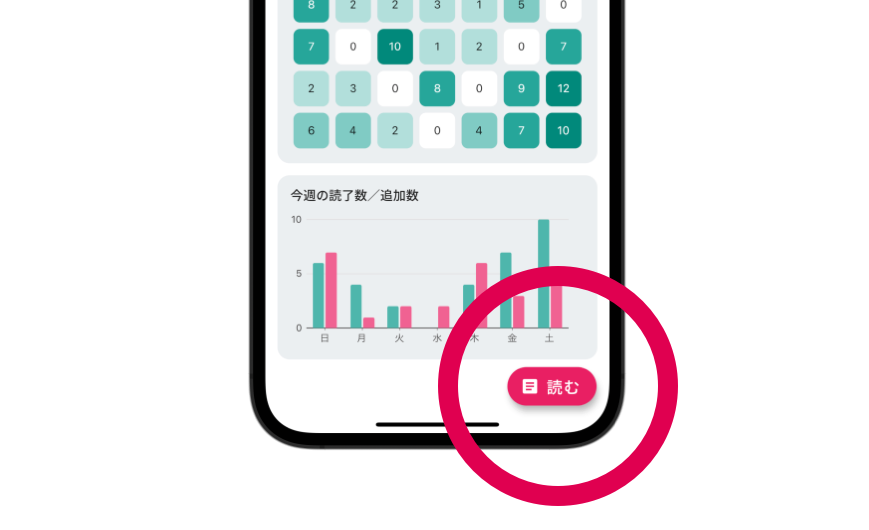
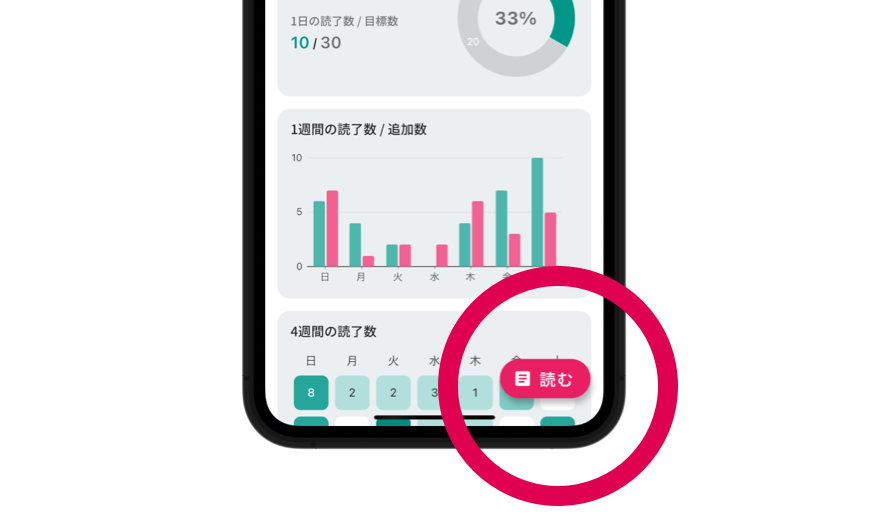
Update v1.1

Changed region(s): [[0.2796, 0.0, 0.7457, 0.8755]]

diff --git a/docs/index.html b/docs/index.html
@@ -94,7 +94,7 @@
         <p class="mb-4">「あとで読む」サービスを使ってはいるが、あとで読むことがほとんどないあなたへ。 読む記事に悩まない、読むことを少しだけ継続できるアプリ。 「あとで読む」サービスのPocketと連携して、Pocketに保存している記事を読むサポートをします。</p>
         
 
-        <img src="https://junmakes.github.io/imayomo-app/images/banner-art2.png" class="img-fluid mt-5" width="750px">
+        <img src="https://junmakes.github.io/imayomo-app/images/banner-art.png" class="img-fluid mt-5" width="750px">
       </div>
     </div>
     <div class="align-items-center justify-content-center text-center" style="margin-top: 50px;">
@@ -143,9 +143,9 @@
       
       <div class="col-md-4 col-sm-6 mb-4">
         <div class="feature-card text-center">
-          <i class="ti-info-alt mb-3"></i>
-          <h4 class="mb-2">作成中...</h4>
-          <p>他にも継続できる仕組みを構想中です。</p>
+          <i class="ti-flag-alt-2 mb-3"></i>
+          <h4 class="mb-2">目標への達成感を得られる</h4>
+          <p>1週間または日単位で読了数の目標値を設定することで、目標達成に向けてのモチベーションを上げることができます。</p>
         </div>
       </div>
       
@@ -196,6 +196,27 @@
         <h2 class="section-title">今どのくらい継続できているか確認できる</h2>
         <p>「読むことが継続できている」と実感させます。 日々どれくらい「あとで読む」されて、実際に読んでいるか把握していますか？ imayomoでは、読了の状況が直感的に理解できるので、日々の目標数達成など改善の具体的なアクションに繋げられます。</p>
         
+      </div>
+    </div>
+  </div>
+</section>
+
+
+
+<section class="section">
+  <div class="container">
+    <div class="row align-items-center">
+      <div class="col-md-6 order-2 order-md-1">
+        <h2 class="section-title">目標の達成度がすぐわかる</h2>
+        <p>読了数に目標を設定することで達成へ向けてモチベーションが上がります。 達成可能な具体的な目標値が見えていると、達成したくなりませんか？ 1週間または日単位で読了数の目標値が設定でき、目標達成に必要な残りの読了数をトップ画面とバッジで確認できます。</p>
+        
+      </div>
+      <div class="col-md-6 order-1 order-md-2 mb-4 mb-md-0">
+        <div >
+          
+          <img src="https://junmakes.github.io/imayomo-app/images/feature-3.png" class="img-fluid">
+          
+        </div>
       </div>
     </div>
   </div>
